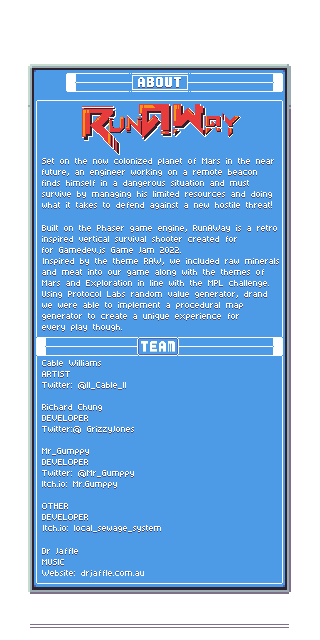
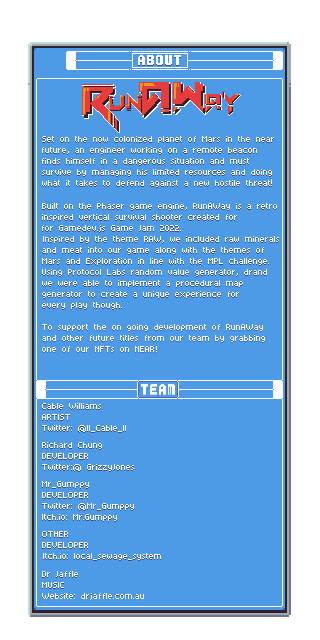
added updates to About scene

Changed region(s): [[0.0625, 0.0625, 0.9062, 0.9688]]

diff --git a/src/scenes/About.ts b/src/scenes/About.ts
@@ -23,10 +23,16 @@ export default class About extends Phaser.Scene {
 		this.add.image(160, 320, "About");
 
 		// back_Button
-		this.add.image(51, 83, "Back-Button");
+		this.add.image(51, 61, "Back-Button");
 
 		// back_Button_Selected
-		this.add.image(51, 83, "Back-Button-Selected");
+		this.add.image(51, 61, "Back-Button-Selected");
+
+		// view_Collection
+		this.add.image(160, 366, "View Collection");
+
+		// view_Collection_Pressed
+		this.add.image(160, 366, "View Collection Pressed");
 
 		this.events.emit("scene-awake");
 	}
